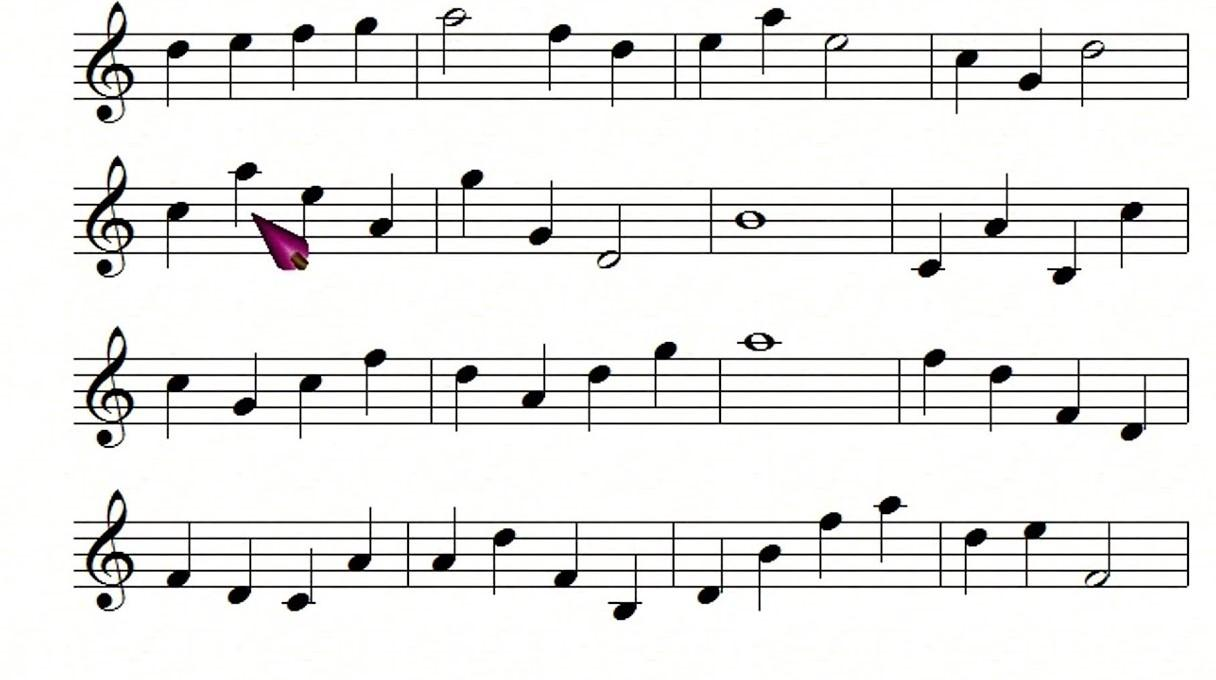
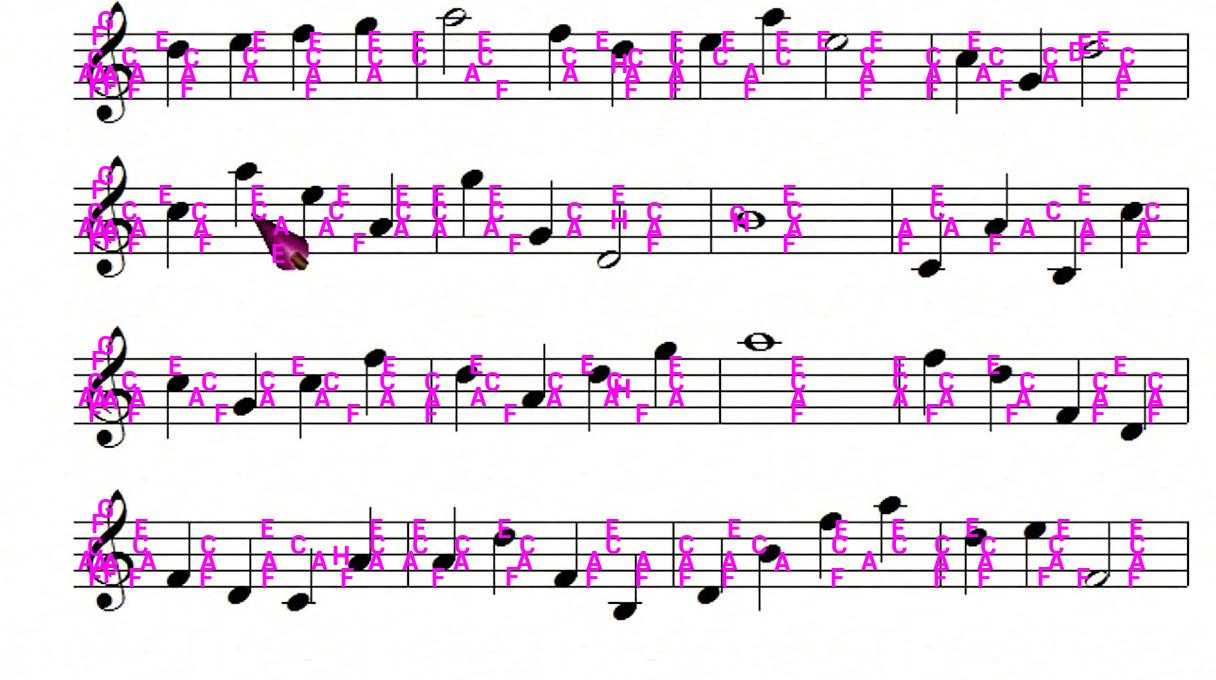
New way to detect notes

diff --git a/Source/NotesRecognizer.py b/Source/NotesRecognizer.py
@@ -31,15 +31,9 @@ class NotesRecognizer:
         self.LineDetector = LineDetector
         self.ShapeDetector = ShpaeDetector
         self.sortLines()
-        for line in self.imageLines:
-            print(line.b)
         self.avgDist = self.avgDistBetweenLines()
-        for staff in self.staffs:
-            for line in staff:
-                print(line.b)
-            print("--------------")
-        #self.recognizeNote(draw, color)
-        #image.save('notes_1.jpg')
+        self.recognizeNote(draw, color)
+        image.save('notes_1.jpg')
 
     def avgDistBetweenLines(self):
         self.getDistances(self.imageLines)
@@ -83,5 +77,5 @@ class NotesRecognizer:
                     elif staff[i].valueOf(centroid[0]) - self.avgDist * 1 / 4 > centroid[1] > staff[i].valueOf(centroid[0]) - self.avgDist * 3 / 4:
                         self.heights.append((centroid[0], centroid[1], self.heightsDict[i * 2 - 1]))
                         draw.text((centroid[0], centroid[1] - 20), self.heightsDict[i * 2 - 1], fill=color, font=self.font)
-                else:
-                    continue
+                    else:
+                        continue

diff --git a/Source/LineDetector.py b/Source/LineDetector.py
@@ -105,14 +105,14 @@ class LineDetector:
     def removeLines(self, img):
         noLinesImage = img.copy()
         for line in self.lines:
-            cv2.line(noLinesImage, line.p1, line.p2, (255, 255, 255), 3)
+            cv2.line(noLinesImage, line.p1, line.p2, (255, 255, 255), 1)
         noLinesImage = self.dilatation(noLinesImage)
         return noLinesImage
 
     def dilatation(self, img):
         dilatationImage = img.copy()
-        for i in range(7):
-            dilatationImage = mp.erosion(dilatationImage)
+        for i in range(1):
+            dilatationImage = mp.dilation(dilatationImage)
         return dilatationImage
 
     def showLinesImage(self):

diff --git a/Source/ShapeDetector.py b/Source/ShapeDetector.py
@@ -36,12 +36,12 @@ class ShapeDetector:
         deviation = statistics.stdev(self.areas)
         toDelete = []
 
-        for i in range(len(self.areas)):
-            if self.areas[i] < median - 0.5 * deviation:
-                toDelete.append(i)
+        # for i in range(len(self.areas)):
+            # if self.areas[i] < median - 0.5 * deviation:
+                # toDelete.append(i)
 
-            if self.areas[i] > median + 2 * deviation:
-                toDelete.append(i)
+            # if self.areas[i] > median + 2 * deviation:
+                # toDelete.append(i)
 
         while len(toDelete) != 0:
             temp = toDelete.pop()

diff --git a/Source/main.py b/Source/main.py
@@ -6,9 +6,10 @@ from NotesRecognizer import *
 if __name__ == "__main__":
     NewImage = ImReader("../Resources/easy/e1.jpg")
     NewDetector = LineDetector(NewImage)
-    NewShapeDetector = ShapeDetector(NewImage.binImage)
+    NewShapeDetector = ShapeDetector(NewDetector.noLinesImage)
     NewRecognizer = NotesRecognizer(NewDetector, NewShapeDetector)
-    NewImage.showBinImage()
+    NewDetector.showNoLinesImage()
+    # NewImage.showBinImage()
     """NewImage = ImReader("../Resources/easy/e2.jpg")
     NewDetector = LineDetector(NewImage)
     NewDetector.showRotatedImage()
